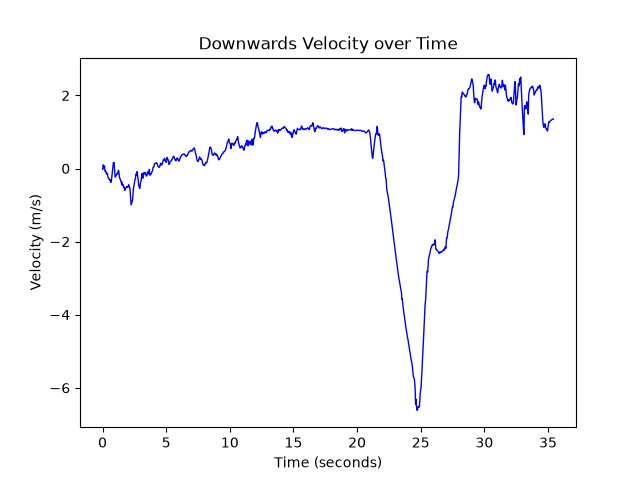
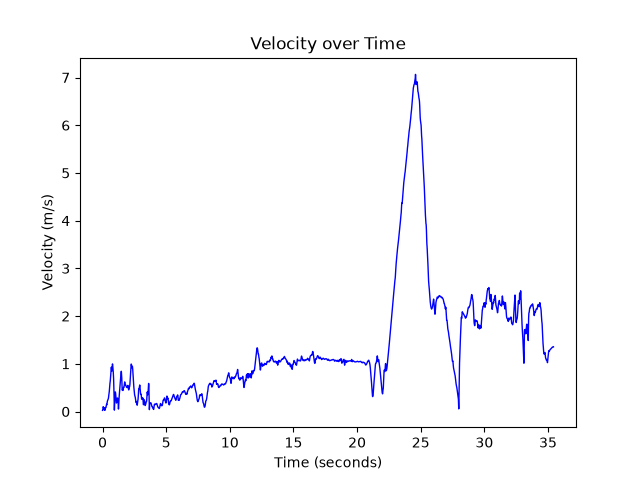
Add y component to calculations so its based on resultant of y and z

diff --git a/src/main.py b/src/main.py
@@ -37,7 +37,7 @@ def integrate():
     active_table = v_t_y_table
 
     for velo in to_find:
-        velocity = cumtrapz(velo) * 0.01
+        velocity = -cumtrapz(velo) * 0.01
 
         i = 0
         for j in velocity:
@@ -54,17 +54,25 @@ def integrate():
 
 def graph(vt):
     velo_y, velo_z, time = vt
+    resultants = np.zeros(len(velo_z))
 
-    plt.plot(time, velo_z, label="Velocity", color="blue", linewidth=1)
+    for i in range(len(velo_z)):
+        resultants[i] = np.sqrt(velo_y[i]**2 + velo_z[i]**2)
+
+    plt.plot(time, resultants, label="Velocity", color="blue", linewidth=1)
     plt.xlabel("Time (seconds)")
     plt.ylabel("Velocity (m/s)")
-    plt.title("Downwards Velocity over Time")
+    plt.title("Velocity over Time")
     plt.savefig(PATH + "out/run-" + OBJECT + str(RUN))
     plt.show()
 
 # Go to middle of slope and fetch gradient
 def find_slope_midsect(vt):
-    velo_y, velo, time = vt
+    velo_y, velo_z, time = vt
+    velo = np.zeros(len(velo_z))
+
+    for i in range(len(velo_z)):
+        velo[i] = np.sqrt(velo_y[i] ** 2 + velo_z[i] ** 2)
     diff = np.diff(velo)
     peak = np.argmax(velo)
     baseline = np.median(velo[(peak - 350):(peak - 250)])
